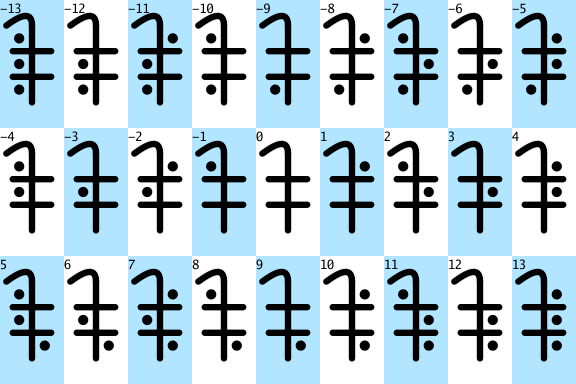
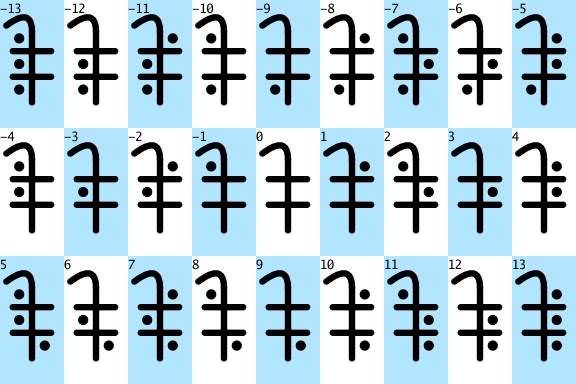
add base27 new digits

diff --git a/digits/base27/dd6.go b/digits/base27/dd6.go
@@ -8,9 +8,9 @@ import (
 	"github.com/gitchander/godigits/geom"
 )
 
-type DigitDrawer4 struct{}
+type DigitDrawer6 struct{}
 
-func (DigitDrawer4) DrawDigit(c *gg.Context, b geom.Bounds, digit int) {
+func (DigitDrawer6) DrawDigit(c *gg.Context, b geom.Bounds, digit int) {
 
 	b = geom.BoundsAspect(b, AspectRatio)
 	v := b.Vmin()
@@ -65,59 +65,34 @@ func (DigitDrawer4) DrawDigit(c *gg.Context, b geom.Bounds, digit int) {
 
 	trits := calcTritsBase27(digit)
 
-	//--------------------------------------------------------------------------
-
-	// switch t := trits[0]; t {
-	// case -1:
-	// 	gd.DrawLine(vs[1], vs[2])
-	// case 0:
-	// case +1:
-	// 	gd.DrawLine(vs[0], vs[1])
-	// }
-
-	// switch t := trits[1]; t {
-	// case -1:
-	// 	gd.DrawLine(vs[3], vs[4])
-	// case 0:
-	// case +1:
-	// 	gd.DrawLine(vs[2], vs[3])
-	// }
-
-	// switch t := trits[2]; t {
-	// case -1:
-	// 	gd.DrawLine(vs[5], vs[0])
-	// case 0:
-	// case +1:
-	// 	gd.DrawLine(vs[4], vs[5])
-	// }
-
-	//--------------------------------------------------------------------------
+	var (
+		radius   = lw * 0.75
+		lerpKoef = 0.5
+	)
 
 	switch t := trits[0]; t {
 	case -1:
-		gd.DrawLine(vs[0], vs[1])
+		gd.DrawCircle(geom.PtLerp(vs[0], vs[5], lerpKoef), radius)
 	case 0:
 	case +1:
-		gd.DrawLine(vs[1], vs[2])
+		gd.DrawCircle(geom.PtLerp(vs[0], vs[1], lerpKoef), radius)
 	}
 
 	switch t := trits[1]; t {
 	case -1:
-		gd.DrawLine(vs[2], vs[3])
+		gd.DrawCircle(geom.PtLerp(vs[2], vs[1], lerpKoef), radius)
 	case 0:
 	case +1:
-		gd.DrawLine(vs[3], vs[4])
+		gd.DrawCircle(geom.PtLerp(vs[2], vs[3], lerpKoef), radius)
 	}
 
 	switch t := trits[2]; t {
 	case -1:
-		gd.DrawLine(vs[4], vs[5])
+		gd.DrawCircle(geom.PtLerp(vs[4], vs[3], lerpKoef), radius)
 	case 0:
 	case +1:
-		gd.DrawLine(vs[5], vs[0])
+		gd.DrawCircle(geom.PtLerp(vs[4], vs[5], lerpKoef), radius)
 	}
 
-	//--------------------------------------------------------------------------
-
-	c.Stroke()
+	gd.c.Fill()
 }

diff --git a/digits/base27/dd5.go b/digits/base27/dd5.go
@@ -8,9 +8,9 @@ import (
 	"github.com/gitchander/godigits/geom"
 )
 
-type DigitDrawer4 struct{}
+type DigitDrawer5 struct{}
 
-func (DigitDrawer4) DrawDigit(c *gg.Context, b geom.Bounds, digit int) {
+func (DigitDrawer5) DrawDigit(c *gg.Context, b geom.Bounds, digit int) {
 
 	b = geom.BoundsAspect(b, AspectRatio)
 	v := b.Vmin()
@@ -67,54 +67,28 @@ func (DigitDrawer4) DrawDigit(c *gg.Context, b geom.Bounds, digit int) {
 
 	//--------------------------------------------------------------------------
 
-	// switch t := trits[0]; t {
-	// case -1:
-	// 	gd.DrawLine(vs[1], vs[2])
-	// case 0:
-	// case +1:
-	// 	gd.DrawLine(vs[0], vs[1])
-	// }
-
-	// switch t := trits[1]; t {
-	// case -1:
-	// 	gd.DrawLine(vs[3], vs[4])
-	// case 0:
-	// case +1:
-	// 	gd.DrawLine(vs[2], vs[3])
-	// }
-
-	// switch t := trits[2]; t {
-	// case -1:
-	// 	gd.DrawLine(vs[5], vs[0])
-	// case 0:
-	// case +1:
-	// 	gd.DrawLine(vs[4], vs[5])
-	// }
-
-	//--------------------------------------------------------------------------
-
 	switch t := trits[0]; t {
 	case -1:
-		gd.DrawLine(vs[0], vs[1])
+		gd.DrawLine(vs[5], vs[0])
 	case 0:
 	case +1:
-		gd.DrawLine(vs[1], vs[2])
+		gd.DrawLine(vs[0], vs[1])
 	}
 
 	switch t := trits[1]; t {
 	case -1:
-		gd.DrawLine(vs[2], vs[3])
+		gd.DrawLine(vs[1], vs[2])
 	case 0:
 	case +1:
-		gd.DrawLine(vs[3], vs[4])
+		gd.DrawLine(vs[2], vs[3])
 	}
 
 	switch t := trits[2]; t {
 	case -1:
-		gd.DrawLine(vs[4], vs[5])
+		gd.DrawLine(vs[3], vs[4])
 	case 0:
 	case +1:
-		gd.DrawLine(vs[5], vs[0])
+		gd.DrawLine(vs[4], vs[5])
 	}
 
 	//--------------------------------------------------------------------------

diff --git a/utils/digits/test/main.go b/utils/digits/test/main.go
@@ -13,8 +13,8 @@ func main() {
 	//testCalcDigits()
 	//testCalcDigitsN()
 	//testDigits()
-	//testCalcDigits2()
-	testRestDigit()
+	testCalcDigits2()
+	//testRestDigit()
 }
 
 func checkError(err error) {
@@ -122,9 +122,9 @@ func frame(s string) string {
 func testCalcDigits2() {
 
 	var (
-		// digiter      = digits.MustNewDigiter1(0, 9)
-		// digitWidth   = 3
-		// digitsNumber = 21
+		digiter      = digits.MustNewDigiter1(0, 9)
+		digitWidth   = 3
+		digitsNumber = 21
 
 		// digiter      = digits.MustNewDigiter1(-1, +1)
 		// digitWidth   = 3
@@ -138,9 +138,9 @@ func testCalcDigits2() {
 		// digitWidth   = 4
 		// digitsNumber = 30
 
-		digiter      = digits.MustNewDigiter1(2, 2)
-		digitWidth   = 3
-		digitsNumber = 30
+		// digiter      = digits.MustNewDigiter1(2, 2)
+		// digitWidth   = 3
+		// digitsNumber = 30
 	)
 
 	ds := make([]int, digitsNumber)
@@ -165,11 +165,12 @@ func testCalcDigits2() {
 func testRestDigit() {
 
 	var (
-		min, max = -1, 1
+		//min, max = -1, 1
 		//min, max = 0, 1
 		//min, max = 0, 19
 		//min, max = -10, -4
 		//min, max = 7, 9
+		min, max = 0, 9
 	)
 
 	rd := digits.MustNewRestDigiter(min, max)

diff --git a/digits/base27/utils.go b/digits/base27/utils.go
@@ -38,6 +38,8 @@ func calcTritsBase27(v int) []int {
 
 //------------------------------------------------------------------------------
 
+type Coord = geom.Point2f
+
 type geomDrawer struct {
 	c *gg.Context
 }
@@ -46,11 +48,15 @@ func newGeomDrawer(c *gg.Context) *geomDrawer {
 	return &geomDrawer{c: c}
 }
 
-func (d *geomDrawer) DrawLine(a, b geom.Point2f) {
+func (d *geomDrawer) DrawLine(a, b Coord) {
 	d.c.MoveTo(a.X, a.Y)
 	d.c.LineTo(b.X, b.Y)
 }
 
-func (d *geomDrawer) DrawLineTo(b geom.Point2f) {
+func (d *geomDrawer) DrawLineTo(b Coord) {
 	d.c.LineTo(b.X, b.Y)
+}
+
+func (d *geomDrawer) DrawCircle(center Coord, radius float64) {
+	d.c.DrawCircle(center.X, center.Y, radius)
 }

diff --git a/digits/base27/test/main.go b/digits/base27/test/main.go
@@ -26,6 +26,8 @@ func main() {
 	checkError(makeDigitMatrix("base27bal_d2.png", base27.DigitDrawer2{}))
 	checkError(makeDigitMatrix("base27bal_d3.png", base27.DigitDrawer3{}))
 	checkError(makeDigitMatrix("base27bal_d4.png", base27.DigitDrawer4{}))
+	checkError(makeDigitMatrix("base27bal_d5.png", base27.DigitDrawer5{}))
+	checkError(makeDigitMatrix("base27bal_d6.png", base27.DigitDrawer6{}))
 }
 
 func makeDigits() {

diff --git a/digits/base16/digit_01.go b/digits/base16/digit_01.go
@@ -192,6 +192,11 @@ func (d Digit1) drawDigitV1(c *gg.Context, x, y float64, digitHeight float64, di
 			c.Fill()
 		}
 	}
+
+	if digit == 0 {
+		c.DrawCircle(4, 8, radius)
+		c.Fill()
+	}
 }
 
 func (d Digit1) drawDigitV2(c *gg.Context, x, y float64, digitHeight float64, digit int) {

diff --git a/digits/base27/dd3.go b/digits/base27/dd3.go
@@ -26,9 +26,9 @@ func (DigitDrawer3) DrawDigit(c *gg.Context, b geom.Bounds, digit int) {
 
 	if true {
 		c.MoveTo(10, 40)
-		c.QuadraticTo(50, 10, 50, 40)
+		c.QuadraticTo(50, 10, 50, 50)
 	}
-	c.MoveTo(50, 40)
+	c.MoveTo(50, 50)
 	c.LineTo(50, 160)
 
 	// Draw horizontal lines
